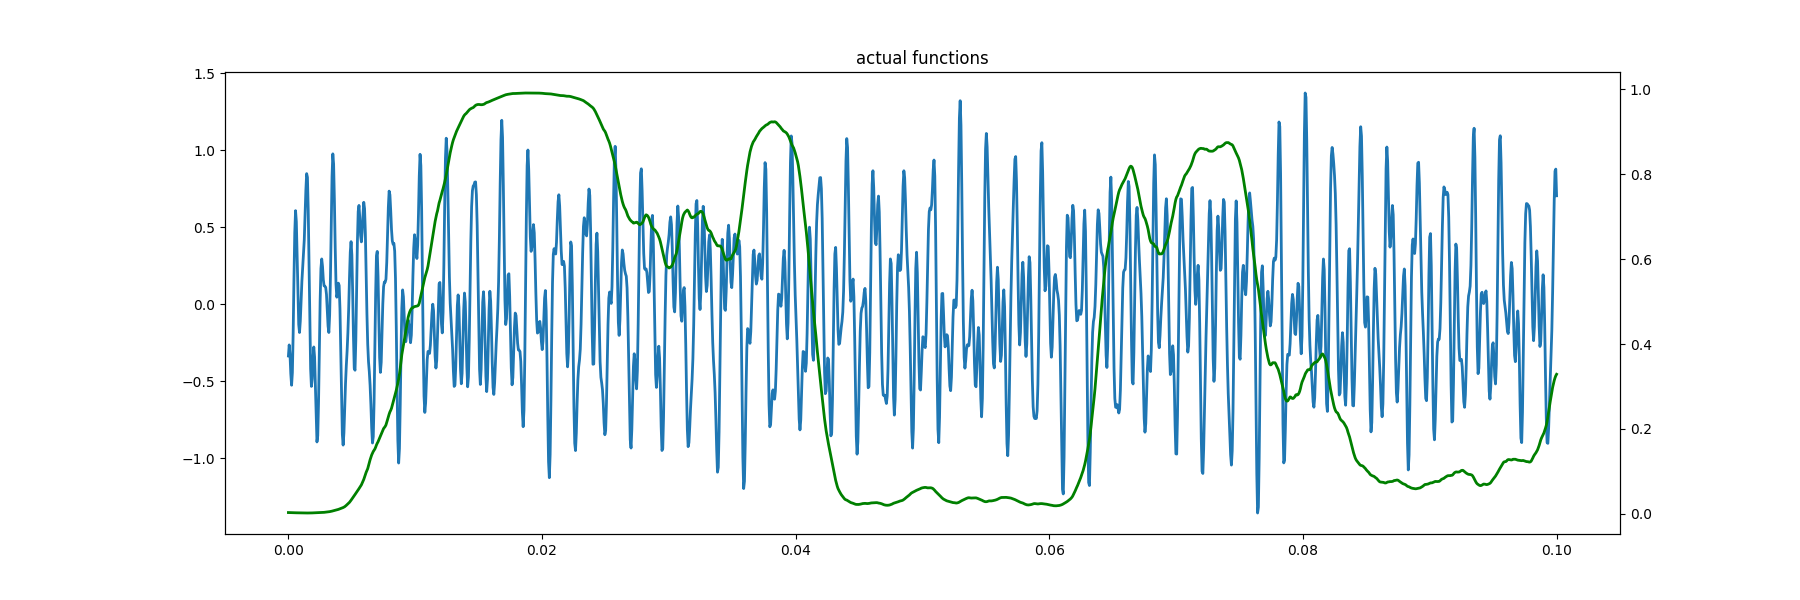
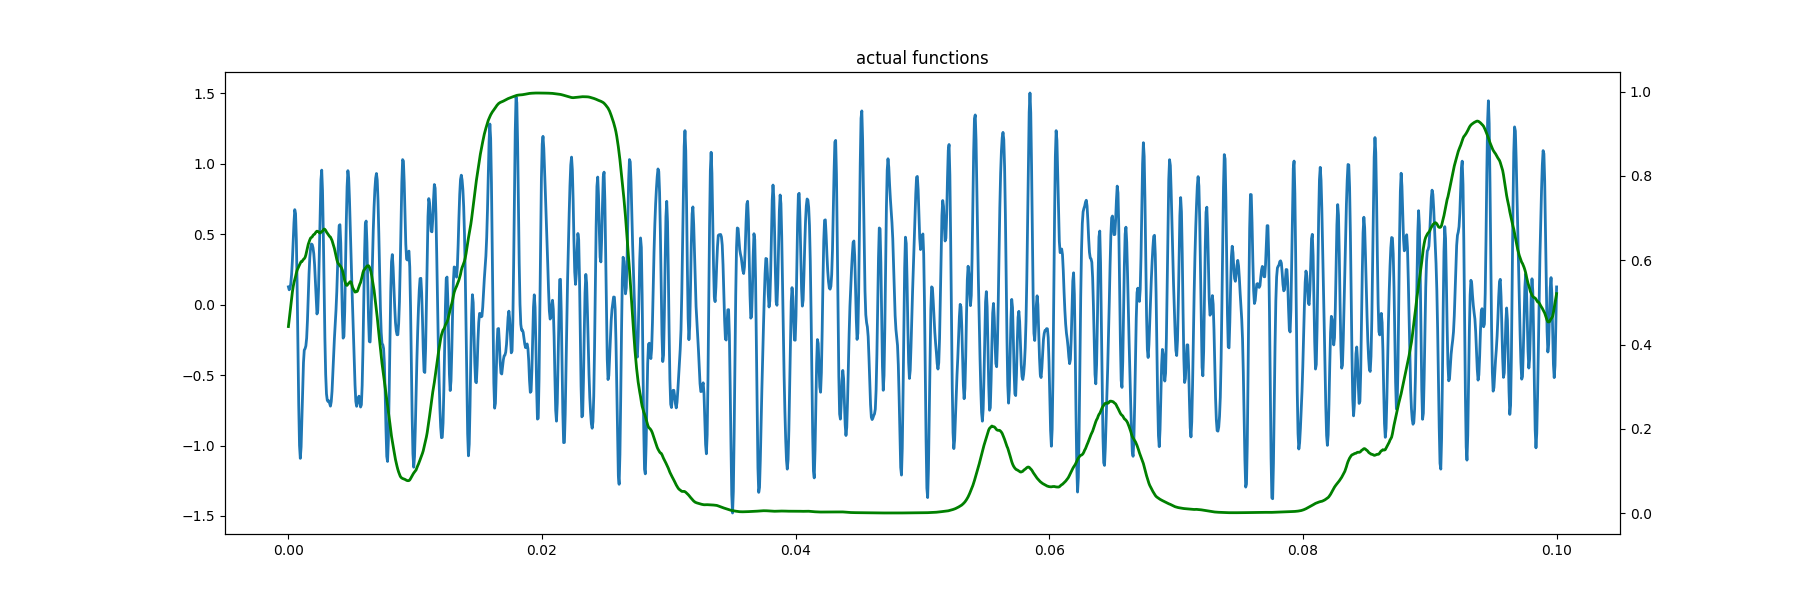
Fix script inharmonic kernel.

diff --git a/notebooks/demo_inharmonic_toy.py b/notebooks/demo_inharmonic_toy.py
@@ -15,7 +15,7 @@ from gpitch.amtgp import logistic
 reload(gpitch)
 
 
-
+np.random.seed(29) # initialize randomly params
 gpitch.amtgp.init_settings(visible_device = '0', interactive=True) #  configure gpu usage and plotting
 
 Nc = 4 #  set kernel params
@@ -42,7 +42,7 @@ mean = logistic(g) * f
 y = mean + np.sqrt(noise_var)*np.random.randn(*mean.shape)
 
 #  set model
-np.random.seed(29) # initialize randomly params
+
 Nc = 4
 init_leng_f =1.*np.random.rand(Nc, 1)
 init_var_f = 1.*np.random.rand(Nc, 1)
@@ -59,21 +59,21 @@ m.kern1.fixed = True
 m.kern2.fixed = True
 m.likelihood.noise_var = noise_var
 m.likelihood.noise_var.fixed = True
-m.optimize(disp=1, maxiter=500)
+m.optimize(disp=1, maxiter=400)
 
-mu, var = m.predict_f(x)
+m_f, v_f = m.predict_f(x)
+m_g, v_g = m.predict_g(x)
+
 plt.figure()
-plt.plot(x, mu, 'C0')
-plt.plot(x, mu + 2*np.sqrt(var), 'C0--')
-plt.plot(x, mu - 2*np.sqrt(var), 'C0--')
+plt.plot(x, m_f, 'C0')
+plt.plot(x, m_f + 2*np.sqrt(v_f), 'C0--')
+plt.plot(x, m_f - 2*np.sqrt(v_f), 'C0--')
 plt.twinx()
-mu, var = m.predict_g(x)
-plt.plot(x, logistic(mu), 'g')
-plt.plot(x, logistic(mu + 2*np.sqrt(var)), 'g--')
-plt.plot(x, logistic(mu - 2*np.sqrt(var)), 'g--')
+plt.plot(x, logistic(m_g), 'g')
+plt.plot(x, logistic(m_g + 2*np.sqrt(v_g)), 'g--')
+plt.plot(x, logistic(m_g - 2*np.sqrt(v_g)), 'g--')
 plt.title('Infered functions')
 plt.savefig('../figures/demo_inharmonic_toy_opt.png')
-
 
 plt.figure()
 plt.title('actual functions')
@@ -84,7 +84,7 @@ plt.savefig('../figures/demo_inharmonic_toy_latent_functions.png')
 
 plt.figure()
 plt.title('g functions')
-plt.plot(x, mu, 'C0')
+plt.plot(x, m_g, 'C0', lw=2)
 plt.plot(x, g, 'g', lw=2)
 plt.legend(['prediction', 'actual functions'])
 plt.savefig('../figures/demo_inharmonic_toy_latent_functions_g.png')
@@ -93,16 +93,77 @@ plt.figure()
 plt.plot(x, y, lw=2)
 plt.savefig('../figures/demo_inharmonic_toy_latent_data.png')
 
-x_plot = np.linspace(-1, 1, N).reshape(-1,1)
-kern_plot = kern_f.compute_K(x_plot, np.asarray(0.).reshape(-1,1)) #  plot kernel
+
+nrows = 4
+ncols = 2
+plt.rcParams['figure.figsize'] = (24,24)  # set plot size
+zoom_limits = [x.max()/2, x.max()/2 + 0.2*x.max()]
+
+fig, fig_array = plt.subplots(nrows, ncols, sharex='row', sharey='row')
+
+fig_array[0, 0].set_title('Data')
+fig_array[0, 0].plot(x, y, lw=2)
+fig_array[0, 1].set_title('Approximation')
+fig_array[0, 1].plot(x, logistic(m_g)*m_f , lw=2)
+
+fig_array[1, 0].set_title('Infered component')
+fig_array[1, 0].plot(x, m_f, color='C0', lw=2)
+fig_array[1, 0].fill_between(x[:, 0], m_f[:, 0] - 2*np.sqrt(v_f[:, 0]),
+                     m_f[:, 0] + 2*np.sqrt(v_f[:, 0]), color='C0', alpha=0.2)
+
+fig_array[1, 1].set_title('Actual component')
+fig_array[1, 1].plot(x, f, color='C0', lw=2)
+
+fig_array[2, 0].set_title('Infered activation')
+fig_array[2, 0].plot(x, logistic(m_g), color='g', lw=2)
+fig_array[2, 0].fill_between(x[:, 0], logistic(m_g[:, 0] - 2*np.sqrt(v_g[:, 0])),
+                     logistic(m_g[:, 0] + 2*np.sqrt(v_g[:, 0])), color='g', alpha=0.2)
+
+fig_array[2, 1].set_title('Actual activation ')
+fig_array[2, 1].plot(x, logistic(g), color='g', lw=2)
+
+fig_array[3, 0].set_title('Infered component (zoom in)')
+fig_array[3, 0].plot(x, m_f, color='C0', lw=2)
+fig_array[3, 0].fill_between(x[:, 0], m_f[:, 0] - 2*np.sqrt(v_f[:, 0]),
+                     m_f[:, 0] + 2*np.sqrt(v_f[:, 0]), color='C0', alpha=0.2)
+fig_array[3, 0].set_xlim(zoom_limits)
+
+fig_array[3, 1].set_title('Actual component (zoom in)')
+fig_array[3, 1].plot(x, f, color='C0', lw=2)
+fig_array[3, 1].set_xlim(zoom_limits)
+
+plt.savefig('../figures/demo_inharmonic_toy_all.png')
 
 
-plt.figure()
-plt.plot(x_plot, kern_plot, lw=2)
-plt.xlim([-1, 1])
-plt.tight_layout()
-plt.savefig('../figures/demo_inharmonic_toy.png')
-#print kern.compute_Kdiag(x)
+fig, fig_array = plt.subplots(nrows, ncols, sharex=False, sharey=False)
+
+fig_array[0, 0].set_title('Data')
+fig_array[0, 0].plot(x, y, lw=2)
+fig_array[0, 1].set_title('Approximation')
+fig_array[0, 1].plot(x, logistic(m_g)*m_f , lw=2)
+
+fig_array[1, 0].set_title('Component')
+fig_array[1, 0].plot(x, m_f, color='C0', lw=2)
+fig_array[1, 0].fill_between(x[:, 0], m_f[:, 0] - 2*np.sqrt(v_f[:, 0]),
+                     m_f[:, 0] + 2*np.sqrt(v_f[:, 0]), color='C0', alpha=0.2)
+
+fig_array[1, 1].set_title('Component (zoom in)')
+fig_array[1, 1].plot(x, m_f, color='C0', lw=2)
+fig_array[1, 1].fill_between(x[:, 0], m_f[:, 0] - 2*np.sqrt(v_f[:, 0]),
+                     m_f[:, 0] + 2*np.sqrt(v_f[:, 0]), color='C0', alpha=0.2)
+fig_array[1, 1].set_xlim(zoom_limits)
+
+fig_array[2, 0].set_title('Activation')
+fig_array[2, 0].plot(x, logistic(m_g), color='g', lw=2)
+fig_array[2, 0].fill_between(x[:, 0], logistic(m_g[:, 0] - 2*np.sqrt(v_g[:, 0])),
+                     logistic(m_g[:, 0] + 2*np.sqrt(v_g[:, 0])), color='g', alpha=0.2)
+
+fig_array[2, 1].set_title('Activation (zoom in)')
+fig_array[2, 1].plot(x, logistic(m_g), color='g', lw=2)
+fig_array[2, 1].fill_between(x[:, 0], logistic(m_g[:, 0] - 2*np.sqrt(v_g[:, 0])),
+                     logistic(m_g[:, 0] + 2*np.sqrt(v_g[:, 0])), color='g', alpha=0.2)
+fig_array[2, 1].set_xlim(zoom_limits)
+plt.savefig('../figures/demo_inharmonic_toy_zoom.png')
 
 
 
